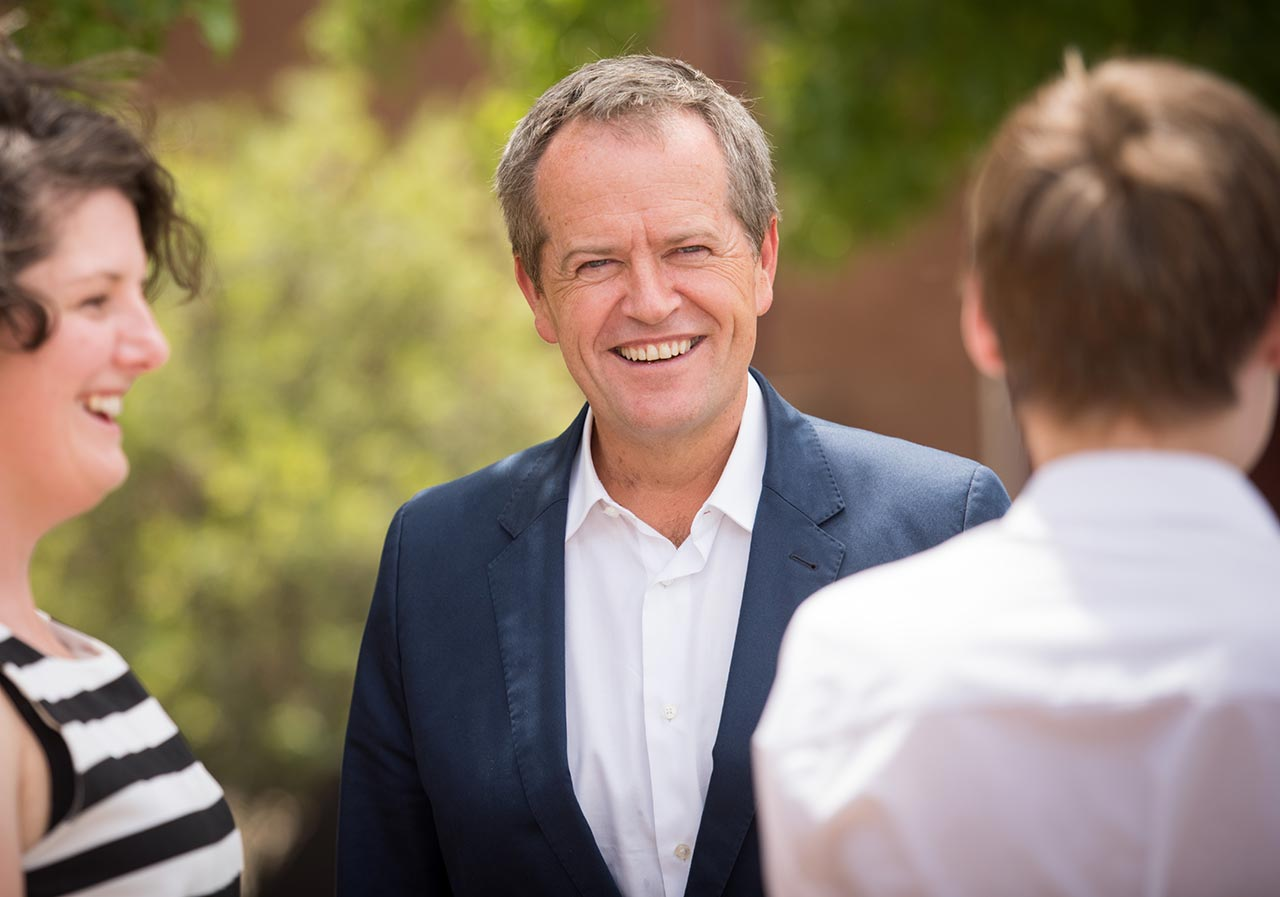
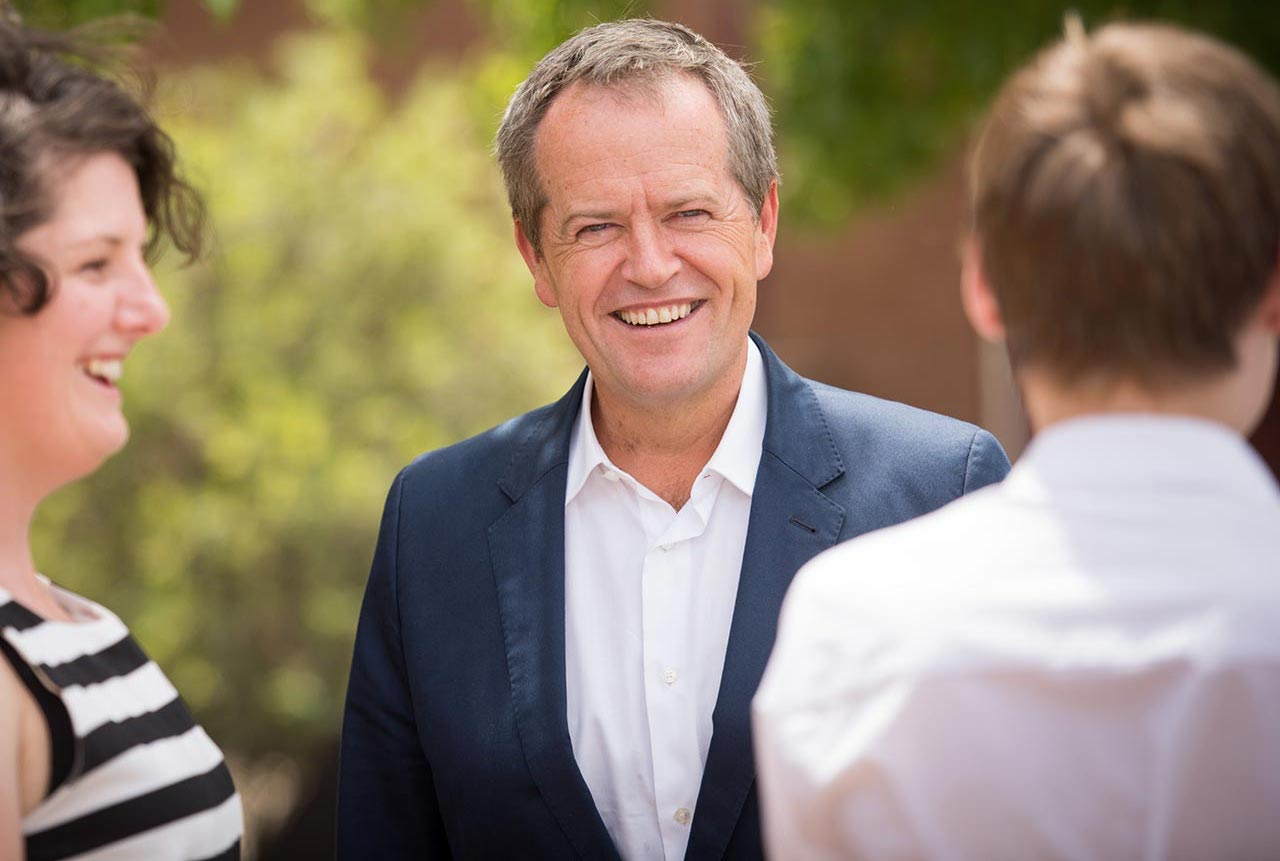
Fixed warped header image

diff --git a/css/style.css b/css/style.css
@@ -223,8 +223,10 @@
 
 .carousel img {
   width: 100%;
+}
+
+.master-top .carousel-item {
   max-height: 570px;
-  i
 }
 
 footer {
